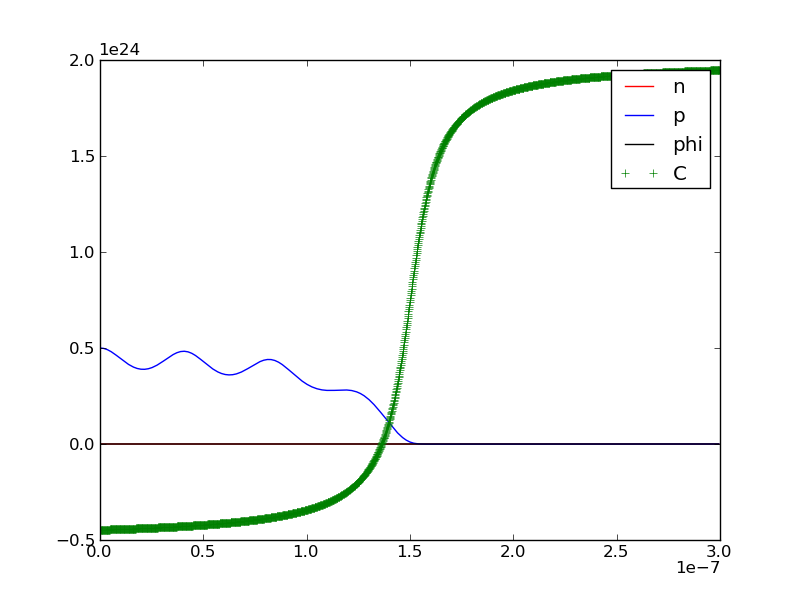
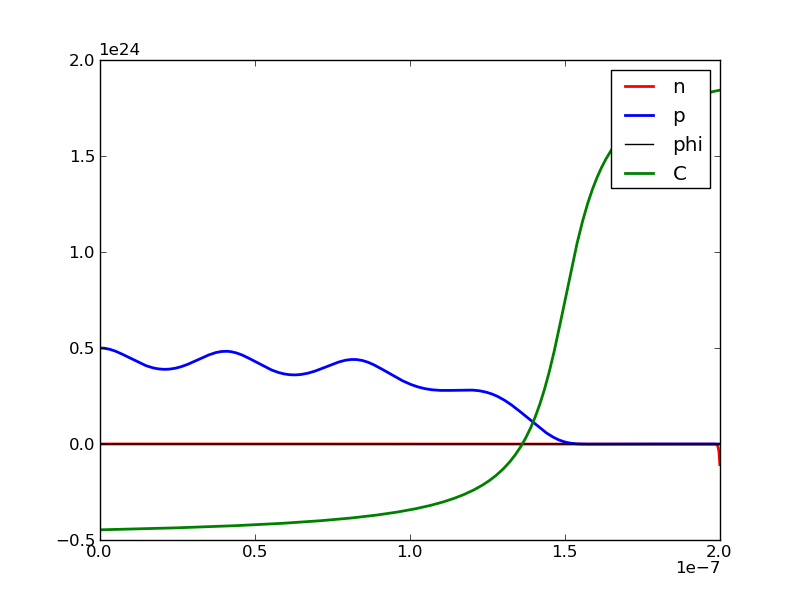
It's doing something

diff --git a/semiconductors.py b/semiconductors.py
@@ -69,19 +69,21 @@ def deriv(y, t):
     yp[4] = y[5]
     return yp
 
-t = arange(0, 300*nm, 300*nm/2000)
+t = arange(0, 200*nm, 300*nm/2000)
 _eps = N_A/1.e3
-y = euler(deriv, [0., 0., N_A, 0., 0., 0.], t)
+# The n(0) condition is a problem, as we don't now it, and if we set it to 0,
+# it will always be 0:
+y = euler(deriv, [-1e-20, 0., N_A, 0., 0., 0.], t)
 n = y[:, 0]
 n_p = y[:, 1]
 p = y[:, 2]
 p_p = y[:, 3]
 phi = y[:, 4]
 phi_p = y[:, 5]
-plot(t, n, "r-", label="n")
-plot(t, p, "b-", label="p")
+plot(t, n, "r-", lw=2, label="n")
+plot(t, p, "b-", lw=2, label="p")
 #plot(t, p_p, "bx", label="p_p")
 plot(t, phi, "k-", label="phi")
-plot(t, C(t), "g+", label="C")
+plot(t, C(t), "g-", lw=2, label="C")
 legend()
 savefig("sol.png")
